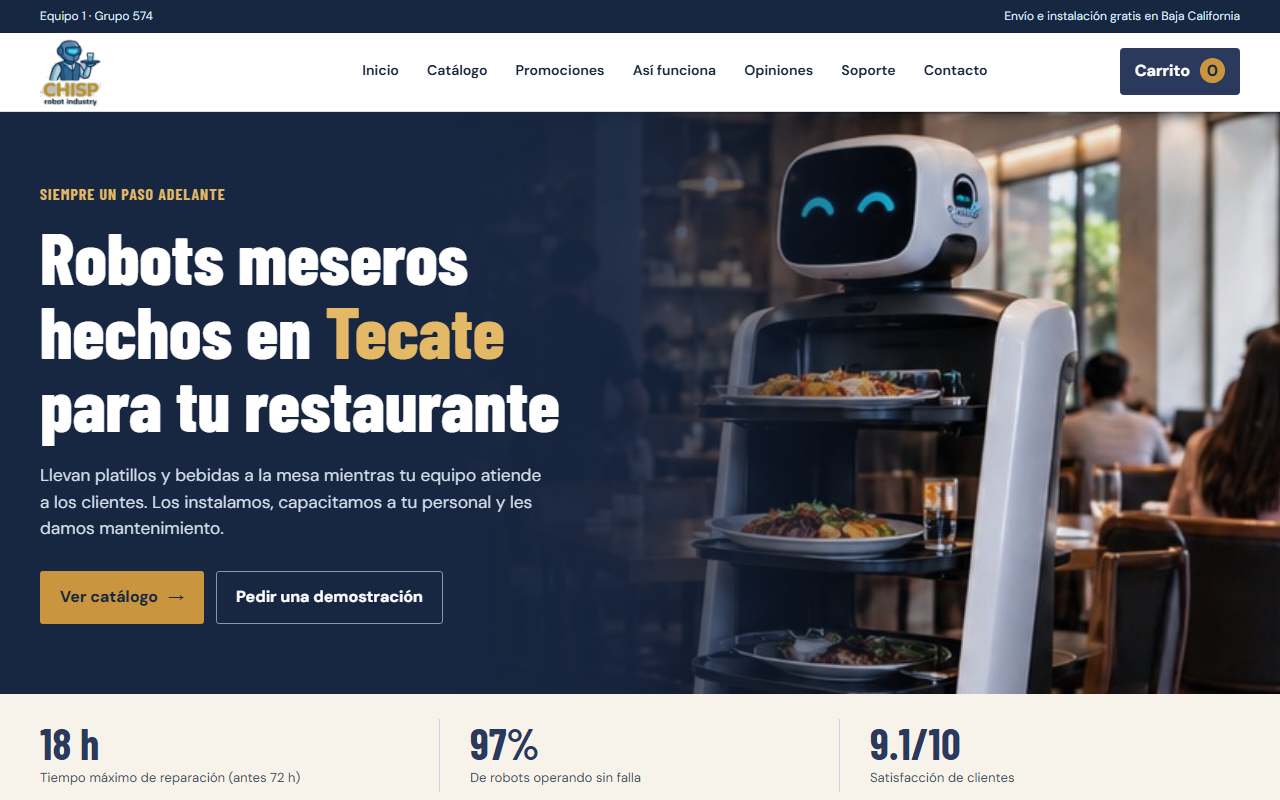
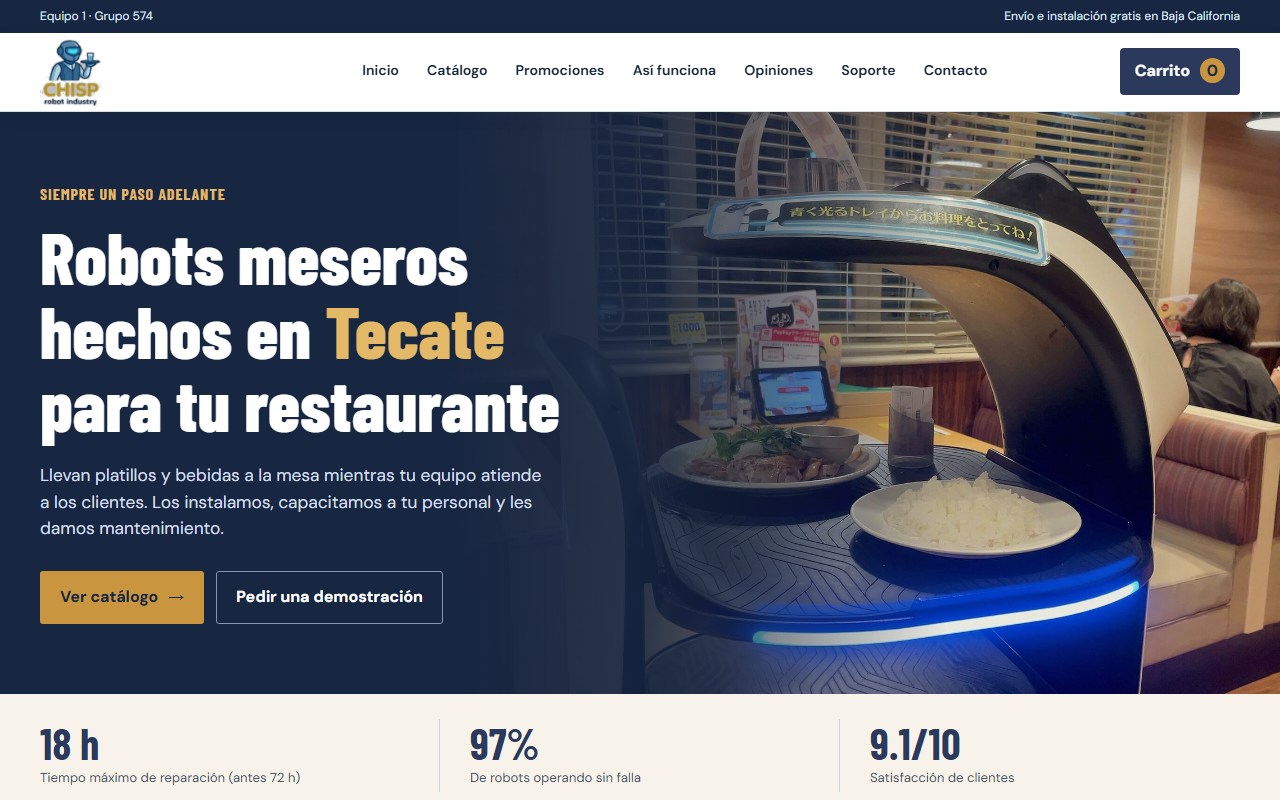
Cambia fotos por imágenes reales con licencia libre

diff --git a/index.html b/index.html
@@ -93,13 +93,9 @@ h3{font-size:1.45rem}
 .tech-aside h3,.contact-info h3{font-size:1.9rem}
 .contact-row strong{color:var(--gold-soft)}
 .variant button.active{border-color:var(--gold-ink);background:#fbf3e3}
-/* Las fotos actuales son pequeñas y traen su etiqueta integrada: se muestran completas.
-   Con fotos nuevas sin texto, quitar estas tres reglas para recuperar las etiquetas de la página. */
-.product-photo{background:var(--paper)}
-.product-photo img{object-fit:contain;object-position:center}
-.product .tag{display:none}
-.modal-image{background:var(--paper);display:grid;place-items:center}
-.modal-image img{width:min(340px,80%);height:auto;object-fit:contain}
+.product-photo{height:auto;aspect-ratio:1;background:var(--paper)}
+.product-photo img{display:block;object-position:center}
+@media(max-width:650px){.product-photo{height:100%;aspect-ratio:auto}}
 .how-photo{height:auto;background:var(--paper);border:1px solid var(--line)}
 .how-photo svg{display:block;width:100%;height:auto}
 .promo-entry{display:flex;gap:8px;margin-top:5px}
@@ -129,10 +125,10 @@ h3{font-size:1.45rem}
 </tbody></table></div><div class="guarantee-grid"><div class="guarantee"><strong>2 años de garantía</strong><span class="muted">Motores, sensores y electrónica.</span></div><div class="guarantee"><strong>1 año de garantía</strong><span class="muted">Batería.</span></div><div class="guarantee"><strong>Respaldo técnico</strong><span class="muted">Robot de reemplazo si la reparación supera 18 h, con plan de mantenimiento.</span></div></div><div id="manuales" style="margin-top:22px"><h3>Manuales y guías</h3><p class="muted">Manual de usuario (PDF, 32 páginas), guía rápida de instalación y videotutoriales de operación. Se entregan con cada robot y en el portal de clientes.</p><p class="muted" style="font-size:.8rem">Los documentos descargables se habilitarán en el portal de clientes de la empresa simulada.</p></div><div style="margin-top:22px"><h3>Calidad y certificaciones</h3><p class="muted">Pruebas de calidad a cada robot antes de salir de planta. Certificación ISO 9001:2015 en proceso; auditoría interna con 79.2% de cumplimiento. Mantenimiento con ciclo PDCA y registro de fallas.</p></div></div></div></div></section>
 <section class="section faq" id="preguntas"><div class="wrap faq-layout"><div><div class="eyebrow">Lo que más nos preguntan</div><h2>Preguntas frecuentes</h2><p class="muted">Si necesitas revisar tu espacio o conocer un modelo, podemos ayudarte.</p></div><div class="faq-list"><details><summary>¿El robot sustituye a mis meseros?</summary><p>No, los apoya en horas pico. El equipo lleva platillos y bebidas mientras tu personal se concentra en atender a los clientes.</p></details><details><summary>¿Qué espacio necesito?</summary><p>Los modelos requieren pasillos desde 55 cm, según el equipo. La visita técnica es gratis.</p></details><details><summary>¿Cuánto dura la batería?</summary><p>De 10 a 14 horas, con tiempos de carga de 3 a 4 horas, según el modelo.</p></details><details><summary>¿Necesita internet?</summary><p>No. Con Wi-Fi puedes utilizar la app CHISP Control.</p></details><details><summary>¿Cómo es el mantenimiento?</summary><p>Incluye visita mensual y atención de fallas en un máximo de 18 horas con el plan de mantenimiento preventivo.</p></details><details><summary>¿Puedo rentar en lugar de comprar?</summary><p>Sí. La renta inicia en $6,900 MXN al mes, con mínimo de 12 meses.</p></details></div></div></section>
 <section class="section" id="envios"><div class="wrap"><div class="section-head"><div><div class="eyebrow">Antes de comprar</div><h2>Envíos y devoluciones</h2></div><p>Llevamos el robot, lo dejamos funcionando y le enseñamos a tu equipo a usarlo.</p></div><div class="policy-grid"><article class="policy"><h3>Envío e instalación</h3><ul><li><b>Baja California:</b> envío, instalación y mapeo del local gratis, de 5 a 7 días hábiles.</li><li><b>Resto de México:</b> de 10 a 15 días hábiles. El costo depende de la ciudad y se incluye en la cotización.</li><li>Incluye 2 horas de capacitación para tu personal el día de la instalación.</li></ul></article><article class="policy"><h3>Devoluciones y cambios</h3><ul><li>30 días para devolver o cambiar el robot si presenta una falla de fábrica.</li><li>Reembolso por el mismo medio de pago en un máximo de 10 días hábiles.</li><li>Los servicios mensuales se pueden cancelar con 30 días de aviso.</li></ul></article></div></div></section>
-<section class="section contact" id="contacto"><div class="wrap"><div class="section-head"><div><div class="eyebrow">Estamos en Tecate</div><h2>Hablemos de tu restaurante</h2></div><p>Cuéntanos qué necesitas y te contactaremos para cotizar o agendar una demostración.</p></div><div class="contact-grid"><form class="contact-form" id="contactForm"><div class="form-grid"><div><label for="cname">Nombre</label><input class="field" id="cname" required placeholder="Tu nombre"></div><div><label for="business">Nombre del negocio</label><input class="field" id="business" placeholder="Tu restaurante"></div></div><div style="margin-top:13px"><label for="interest">¿Qué te interesa?</label><select class="field" id="interest"><option>Cotización</option><option>Demostración</option><option>Soporte</option><option>Renta</option></select></div><div style="margin-top:13px"><label for="message">Mensaje</label><textarea class="field" id="message" required placeholder="Cuéntanos un poco sobre tu operación…"></textarea></div><button class="btn btn-dark" style="margin-top:16px" type="submit">Enviar solicitud →</button><p class="muted" style="font-size:.72rem">Formulario de demostración escolar. No se envían ni almacenan datos.</p></form><aside class="contact-info"><div class="eyebrow">Atención al cliente</div><h3>Escríbenos directo</h3><div class="contact-row"><strong>Ventas</strong><a href="mailto:ventas@chisprobot.mx">ventas@chisprobot.mx</a></div><div class="contact-row"><strong>WhatsApp soporte</strong><a href="https://wa.me/526651002026" target="_blank" rel="noopener">665 100 2026 · Enviar mensaje</a></div><div class="contact-row"><strong>Redes sociales</strong><span>@chisprobot · Instagram, Facebook y TikTok</span></div><div class="contact-row"><strong>Planta y showroom</strong><span>Tecate, Baja California</span></div><div class="contact-row"><strong>Horario</strong><span>Lunes a viernes 9:00 a 18:00<br>Sábado 9:00 a 14:00</span></div><div class="contact-row"><strong>Soporte técnico</strong><span>Chat en CHISP Control, 24/7 para clientes con plan.</span></div></aside></div></div></section>
+<section class="section contact" id="contacto"><div class="wrap"><div class="section-head"><div><div class="eyebrow">Estamos en Tecate</div><h2>Hablemos de tu restaurante</h2></div><p>Cuéntanos qué necesitas y te contactaremos para cotizar o agendar una demostración.</p></div><div class="contact-grid"><form class="contact-form" id="contactForm"><div class="form-grid"><div><label for="cname">Nombre</label><input class="field" id="cname" required placeholder="Tu nombre"></div><div><label for="business">Nombre del negocio</label><input class="field" id="business" placeholder="Tu restaurante"></div></div><div style="margin-top:13px"><label for="interest">¿Qué te interesa?</label><select class="field" id="interest"><option>Cotización</option><option>Demostración</option><option>Soporte</option><option>Renta</option></select></div><div style="margin-top:13px"><label for="message">Mensaje</label><textarea class="field" id="message" required placeholder="Cuéntanos un poco sobre tu operación…"></textarea></div><button class="btn btn-dark" style="margin-top:16px" type="submit">Enviar solicitud →</button><p class="muted" style="font-size:.72rem">Formulario de demostración escolar. No se envían ni almacenan datos.</p></form><aside class="contact-info"><div class="eyebrow">Atención al cliente</div><h3>Escríbenos directo</h3><div class="contact-row"><strong>Ventas</strong><a href="mailto:ventas@chisprobot.mx">ventas@chisprobot.mx</a></div><div class="contact-row"><strong>WhatsApp soporte</strong><span>665 100 2026 (número de ejemplo)</span></div><div class="contact-row"><strong>Redes sociales</strong><span>@chisprobot · Instagram, Facebook y TikTok</span></div><div class="contact-row"><strong>Planta y showroom</strong><span>Tecate, Baja California</span></div><div class="contact-row"><strong>Horario</strong><span>Lunes a viernes 9:00 a 18:00<br>Sábado 9:00 a 14:00</span></div><div class="contact-row"><strong>Soporte técnico</strong><span>Chat en CHISP Control, 24/7 para clientes con plan.</span></div></aside></div></div></section>
 <section class="section legal" id="privacidad"><div class="wrap"><div class="section-head"><div><div class="eyebrow">Tus datos</div><h2>Privacidad y seguridad</h2></div><p>La información de clientes se trata con responsabilidad y bajo las disposiciones aplicables.</p></div><div class="legal-grid"><article class="legal-item"><h3>Conexión cifrada SSL</h3><p>El sitio utiliza HTTPS con certificado SSL para cifrar la información entre navegador y servidor.</p></article><article class="legal-item"><h3>Pagos seguros</h3><p>Los pagos se procesan mediante pasarela certificada PCI DSS. CHISP no guarda datos de tarjeta.</p></article><article class="legal-item"><h3>Datos personales</h3><p>Tratamiento conforme a la Ley Federal de Protección de Datos Personales en Posesión de los Particulares.</p></article><article class="legal-item"><h3>Derechos ARCO</h3><p>Acceso, rectificación, cancelación y oposición. Para solicitudes: ventas@chisprobot.mx.</p></article></div></div></section>
 </main>
-<footer><div class="wrap"><div class="footer-grid"><div class="footer-brand"><a class="brand" href="#inicio"><img class="brand-logo" src="assets/chisp-logo.png" alt="CHISP Robot Industry, robot mesero con charola"></a><p>“Siempre un paso adelante”</p><p>Tecate, Baja California.</p></div><div><h3>Explora</h3><a href="#catalogo">Catálogo</a><a href="#promociones">Promociones</a><a href="#funciona">Así funciona</a><a href="#opiniones">Opiniones</a></div><div><h3>Atención</h3><a href="#preguntas">Preguntas frecuentes</a><a href="#envios">Envíos y devoluciones</a><a href="#soporte">Fichas técnicas y garantía</a><a href="#contacto">Contacto</a></div><div><h3>Seguridad</h3><a href="#privacidad">Privacidad y seguridad</a><a href="#privacidad">Pagos PCI DSS</a><a href="#privacidad">Derechos ARCO</a><a href="mailto:ventas@chisprobot.mx">ventas@chisprobot.mx</a></div></div><div class="references"><strong>Referencias · APA 7</strong><p>Iruretagoyena, P. (2023). <i>Comercio electrónico</i>. McGraw-Hill. <a href="https://www.mheducation.es/bcv/guide/capitulo/8448196848.pdf" target="_blank" rel="noopener">Consultar fuente</a></p><p>Salinas, D. (2023, 21 de diciembre). <i>Cómo hacer un catálogo digital que cautive y venda</i>. Wix. <a href="https://es.wix.com/blog/2023/12/como-hacer-un-catalogo-digital" target="_blank" rel="noopener">Consultar fuente</a></p><p>Universidad de Guanajuato. (2023, 30 de noviembre). <i>Clase digital 4. Comunicación y colaboración digital</i>. Recursos Educativos Abiertos. <a href="https://blogs.ugto.mx/rea/clase-digital-4-comunicacion-y-colaboracion-digital/" target="_blank" rel="noopener">Consultar fuente</a></p><p>Wadhwani Advantage Latam. (2019, 14 de noviembre). <i>Marketing digital</i> [Video]. YouTube. <a href="https://www.youtube.com/watch?v=2LihEiFv04Y" target="_blank" rel="noopener">Ver video</a></p><div class="team">Equipo 1 · Grupo 574 — Cortez Hernández Lenin Baku · Ramírez Astorga Jofiel Oryares · Martínez Bazán Jesús Arturo · Brito Ortiz Oscar Artemio</div><p style="margin-top:12px">© 2026 CHISP Robot Industry. Empresa simulada para proyecto universitario.</p></div></div></footer>
+<footer><div class="wrap"><div class="footer-grid"><div class="footer-brand"><a class="brand" href="#inicio"><img class="brand-logo" src="assets/chisp-logo.png" alt="CHISP Robot Industry, robot mesero con charola"></a><p>“Siempre un paso adelante”</p><p>Tecate, Baja California.</p></div><div><h3>Explora</h3><a href="#catalogo">Catálogo</a><a href="#promociones">Promociones</a><a href="#funciona">Así funciona</a><a href="#opiniones">Opiniones</a></div><div><h3>Atención</h3><a href="#preguntas">Preguntas frecuentes</a><a href="#envios">Envíos y devoluciones</a><a href="#soporte">Fichas técnicas y garantía</a><a href="#contacto">Contacto</a></div><div><h3>Seguridad</h3><a href="#privacidad">Privacidad y seguridad</a><a href="#privacidad">Pagos PCI DSS</a><a href="#privacidad">Derechos ARCO</a><a href="mailto:ventas@chisprobot.mx">ventas@chisprobot.mx</a></div></div><div class="references"><strong>Referencias · APA 7</strong><p>Iruretagoyena, P. (2023). <i>Comercio electrónico</i>. McGraw-Hill. <a href="https://www.mheducation.es/bcv/guide/capitulo/8448196848.pdf" target="_blank" rel="noopener">Consultar fuente</a></p><p>Salinas, D. (2023, 21 de diciembre). <i>Cómo hacer un catálogo digital que cautive y venda</i>. Wix. <a href="https://es.wix.com/blog/2023/12/como-hacer-un-catalogo-digital" target="_blank" rel="noopener">Consultar fuente</a></p><p>Universidad de Guanajuato. (2023, 30 de noviembre). <i>Clase digital 4. Comunicación y colaboración digital</i>. Recursos Educativos Abiertos. <a href="https://blogs.ugto.mx/rea/clase-digital-4-comunicacion-y-colaboracion-digital/" target="_blank" rel="noopener">Consultar fuente</a></p><p>Wadhwani Advantage Latam. (2019, 14 de noviembre). <i>Marketing digital</i> [Video]. YouTube. <a href="https://www.youtube.com/watch?v=2LihEiFv04Y" target="_blank" rel="noopener">Ver video</a></p><strong style="display:block;margin-top:14px">Créditos de fotografías</strong><p>Fotos reales de robots de servicio de otros fabricantes, usadas solo como ilustración en este proyecto escolar y recortadas para el catálogo. Vía Wikimedia Commons: <a href="https://commons.wikimedia.org/wiki/File:BellaBot_at_Gusto_restaurant_-_7.jpg" target="_blank" rel="noopener">portada</a> y <a href="https://commons.wikimedia.org/wiki/File:BellaBot_in_Gusto_restaurants_-_9.jpg" target="_blank" rel="noopener">Barra</a>, Kyu3a (CC BY-SA 4.0); <a href="https://commons.wikimedia.org/wiki/File:Robot_de_serveis_Pudu_2022.jpg" target="_blank" rel="noopener">Mesero Pro</a>, Marc Auledas-Noguera (CC BY-SA 4.0); <a href="https://commons.wikimedia.org/wiki/File:BellaBot_Kongresszentrum_Luftschiffhafen_Potsdam.jpg" target="_blank" rel="noopener">Host</a>, Geolina163 (CC BY-SA 4.0); <a href="https://commons.wikimedia.org/wiki/File:Potsdam_BellaBot_Kongresszentrum_Luftschiffhafen.jpg" target="_blank" rel="noopener">Mini</a>, Alraunenstern (CC BY-SA 4.0); <a href="https://commons.wikimedia.org/wiki/File:Automated_Kitty_Cat_waiter_Cherry_Street_Sports_Club_68_Cherry_St_Ballina_NSW_L1020436.jpg" target="_blank" rel="noopener">Mesero One</a> y <a href="https://commons.wikimedia.org/wiki/File:Automated_Kitty_Cat_waiter_Cherry_Street_Sports_Club_68_Cherry_St_Ballina_NSW_L1020437.jpg" target="_blank" rel="noopener">Edición Tecate</a>, John Robert McPherson (CC0). Licencia: <a href="https://creativecommons.org/licenses/by-sa/4.0/deed.es" target="_blank" rel="noopener">CC BY-SA 4.0</a>.</p><div class="team">Equipo 1 · Grupo 574 — Cortez Hernández Lenin Baku · Ramírez Astorga Jofiel Oryares · Martínez Bazán Jesús Arturo · Brito Ortiz Oscar Artemio</div><p style="margin-top:12px">© 2026 CHISP Robot Industry. Empresa simulada para proyecto universitario.</p></div></div></footer>
 <div class="cart-drawer" id="cartDrawer"><div class="scrim" id="cartScrim"></div><aside class="cart-panel"><div class="cart-head"><h2>Tu pedido</h2><button class="close" id="closeCart" aria-label="Cerrar carrito">×</button></div><div class="cart-items" id="cartItems"></div><div class="cart-totals" id="cartTotals"></div><label for="promoCode" style="display:block;font-size:.8rem;font-weight:700;margin-top:15px">Código de promoción</label><div class="promo-entry"><input class="field" id="promoCode" placeholder="Ej. CHISP3" autocomplete="off"><button class="btn btn-light" id="applyPromo" type="button">Aplicar</button></div><p class="promo-msg" id="promoMsg" role="status"></p><label for="paymentMethod" style="display:block;font-size:.8rem;font-weight:700;margin-top:15px">Forma de pago</label><select class="field" id="paymentMethod"><option>Tarjeta de crédito o débito</option><option>Hasta 12 pagos mensuales</option><option>Transferencia SPEI</option><option>PayPal</option><option>Mercado Pago</option></select><button class="btn btn-primary checkout" id="checkout">Continuar con pedido de demostración →</button><p class="muted" style="font-size:.72rem">No solicitaremos datos bancarios. Esta compra es únicamente una demostración escolar. Precios antes de IVA, salvo que se indique lo contrario.</p></aside></div>
 <div class="modal" id="productModal"><div class="modal-box"><button class="close modal-close" id="closeModal">×</button><div class="modal-content" id="modalContent"></div></div></div><div class="toast" id="toast"></div>
 <script>

diff --git a/README.md b/README.md
@@ -14,6 +14,8 @@ Catálogo digital de robots meseros de CHISP, una empresa simulada de Tecate, Ba
 
 Es un sitio estático: `index.html` y la carpeta `assets`. No envía ni guarda datos, y las compras son solo de demostración.
 
+Las fotos de robots son de Wikimedia Commons, con licencias CC BY-SA 4.0 y CC0. Los créditos están al pie de la página.
+
 ## Equipo 1 · Grupo 574
 
 - Cortez Hernández Lenin Baku
